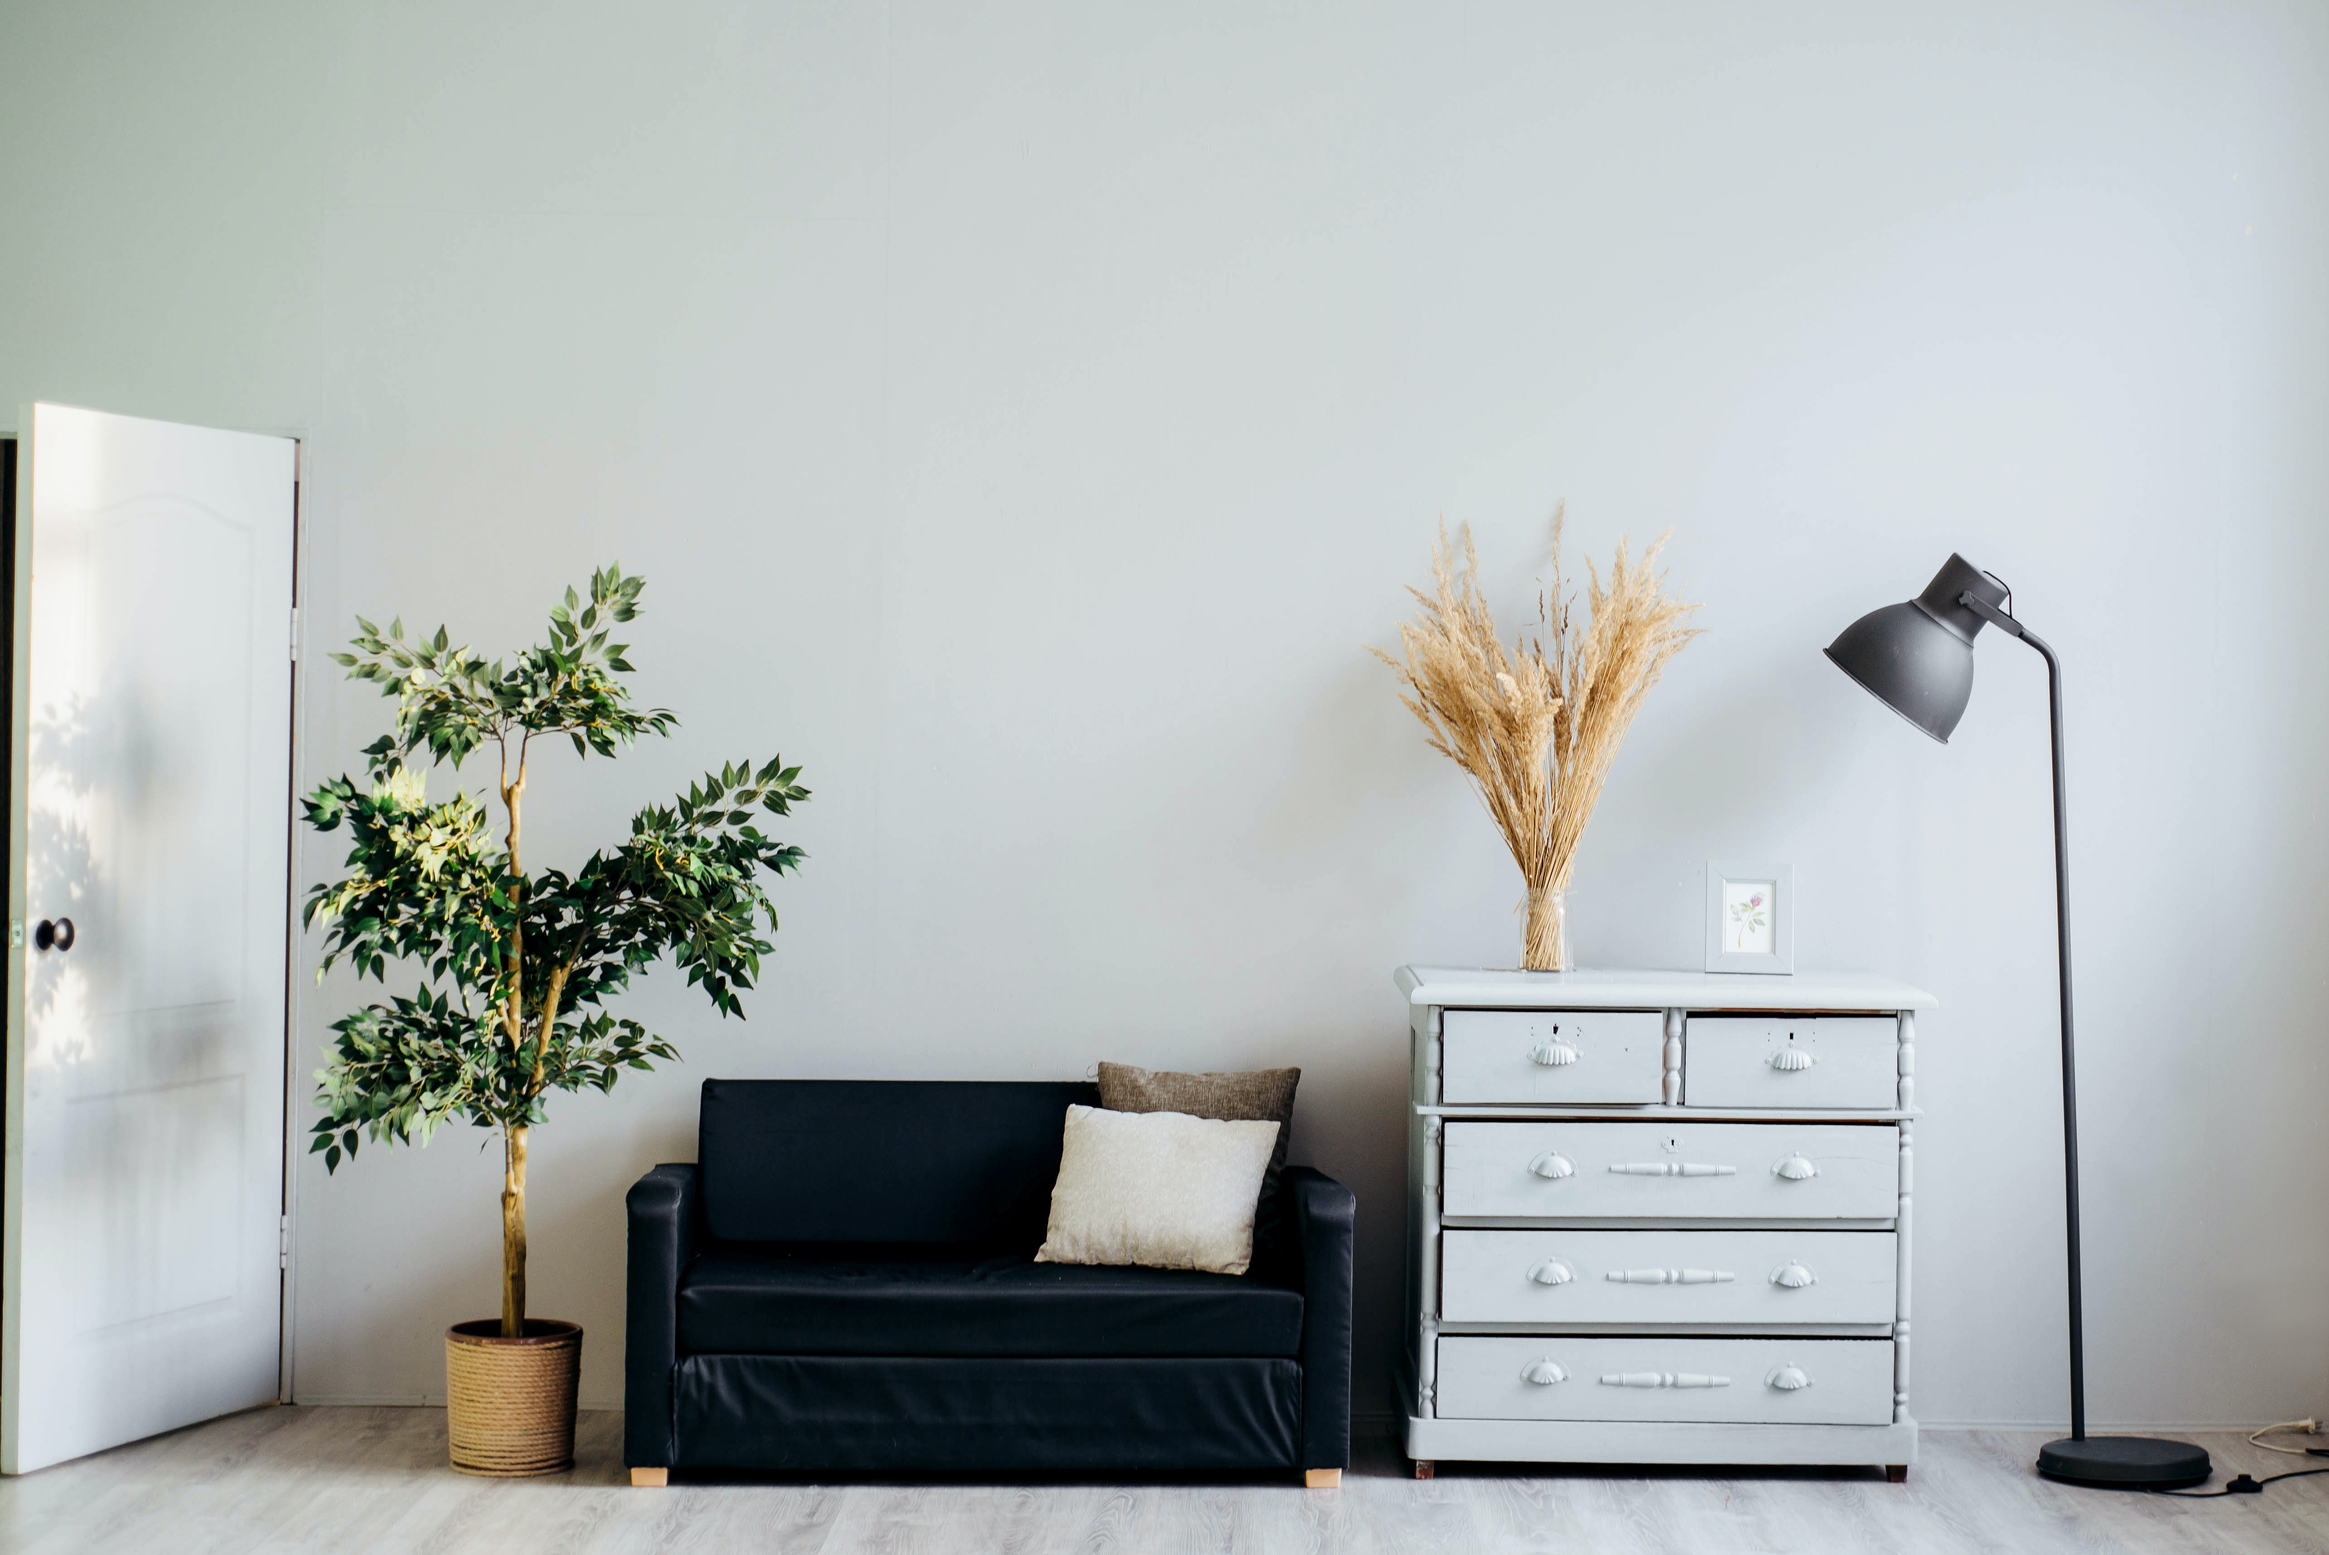
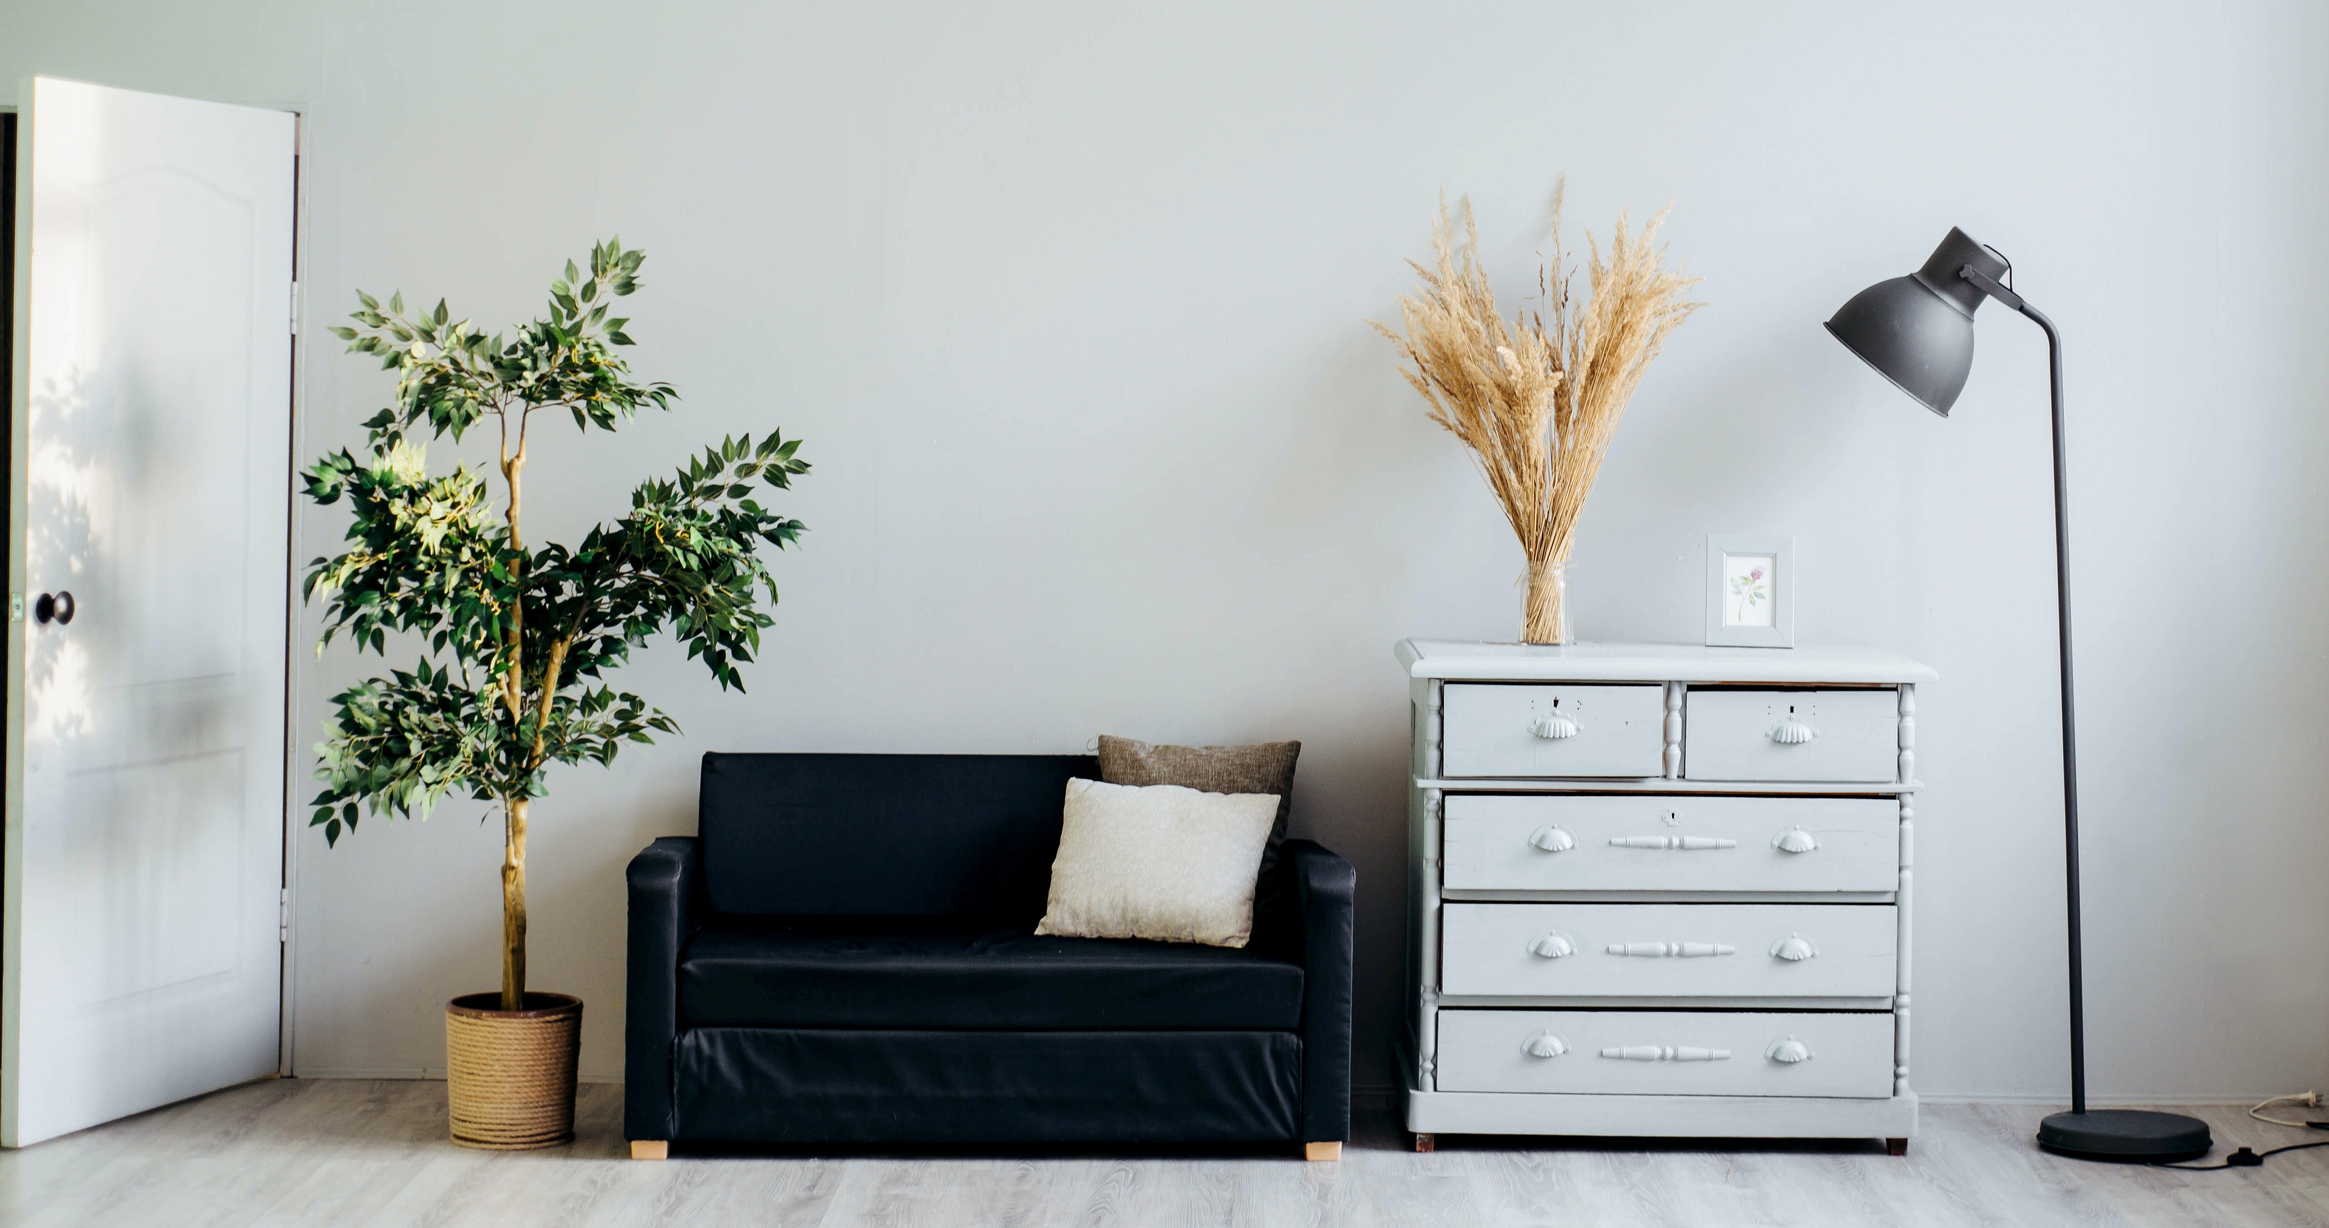
notice removed from above navbar, home page styled

Changed region(s): [[0.0, 0.0619, 1.0, 0.9912], [0.9339, 0.5265, 1.0, 0.6195]]

diff --git a/app/assets/stylesheets/pages/_home.scss b/app/assets/stylesheets/pages/_home.scss
@@ -1,9 +1,35 @@
 // Specific CSS for your home-page
 .banner {
   background-size: cover;
-  background-size: contain;
-  height: 500px;
-  width: 100%;
+  height: calc(100vh - 66px);
+  width: 100vw;
   background-repeat: no-repeat;
   background-position: center;
+  background-image: linear-gradient(rgba(0,0,0,0.2), rgba(0,0,0,0.2)), image-url('furniture-set.jpg');
+  display: flex;
+  align-items: center;
+  justify-content: left;
+  color: #fff;
+  font-size: x-large;
+  padding-left: 112px;
+  padding-bottom: 112px;
+  font-weight: 500;
+  h1 {
+    background-image: linear-gradient(rgba(0,0,0,0.4), rgba(0,0,0,0.4));
+    padding-top: 8px;
+    padding-left: 16px;
+    padding-right: 16px;
+    padding-bottom: 8px;
+    border-radius: 4px;
+  }
+  p {
+    background-image: linear-gradient(rgba(0,0,0,0.4), rgba(0,0,0,0.4));
+    width: fit-content;
+    padding-top: 8px;
+    padding-left: 16px;
+    padding-right: 16px;
+    padding-bottom: 8px;
+    border-radius: 4px;
+  }
 }
+
